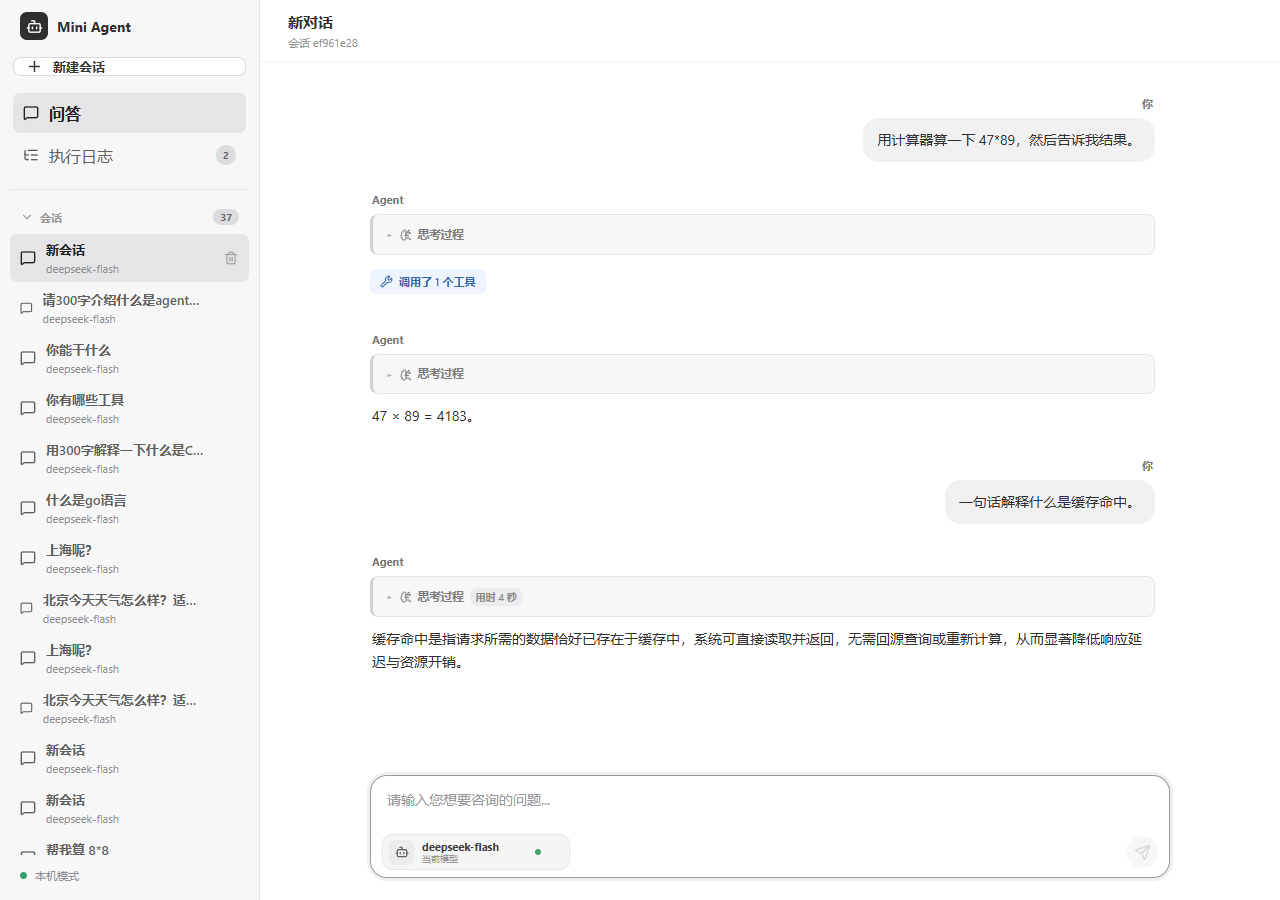
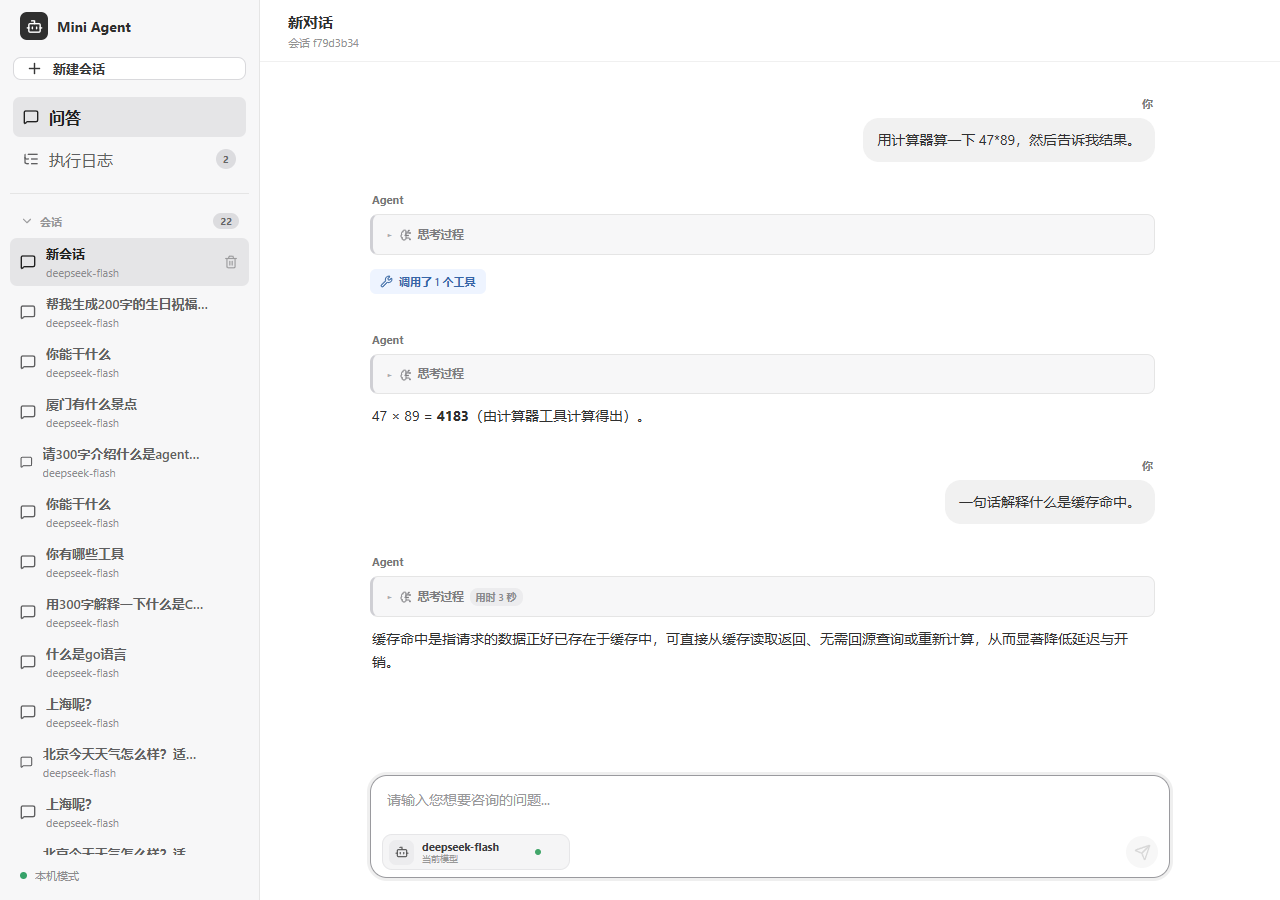
文档：按实测修正 README 命令，并澄清 npm/Vite/API 三处前提
- 切目录命令改用 cd（4 处）：原来那条是 PowerShell 专有 cmdlet，在 cmd / Git Bash 里直接 command not found；cd 在三种终端下都能粘贴执行
- npm/npx 不可用补第二种成因：除 wsl.exe 被安全策略拦下外，PowerShell 执行策略为 Restricted 时脚本包装器被禁止执行
- 补注 npm install 会改写 frontend/package-lock.json（不同 npm 版本对 libc 字段处理不同），属版本差异、不要提交这份 diff
- 澄清 127.0.0.1:5173 不是「可能连不上」而是必然被拒（Vite 只绑 IPv6 回环），实测 localhost 与 [::1] 均正常
- 补 pytest 的 SKIP 说明：2 个 skip 是真实模型用例，浏览器用例仍照常运行（走 Fake LLM）
- 主要 API 补三条必需请求体（POST sessions / runs / resources）：此前只列路径不给 body，照抄必 422
- 随附本轮浏览器验收证据（browser.json 与两张截图）

diff --git a/README.md b/README.md
@@ -98,17 +98,21 @@ React 前端 ──HTTP / SSE──▶ FastAPI 接口层（routers/）
 - Python 3.11+
 - Node.js 20+
 
-PowerShell 安装：
+安装（下面代码块用 `cd` 而不是 `Set-Location`，这样在 PowerShell、cmd 和 Git Bash 里都能直接粘贴执行）：
 
 ```powershell
 python -m venv .venv
 .\.venv\Scripts\python.exe -m pip install -r requirements.lock
-Set-Location frontend
+cd frontend
 npm install
-Set-Location ..
+cd ..
 ```
 
-若本机安全策略拦住了 `npm` / `npx`（某些 Windows 环境里它们是脚本包装器，会经 `wsl.exe` 路由而被拦下），改用同目录的 `npm.cmd` / `npx.cmd`，例如 `npm.cmd run build`。
+三点环境提示：
+
+- **`npm` / `npx` 不可用时的两种成因**：① 它们是脚本包装器、经 `wsl.exe` 路由而被安全策略拦下（Git Bash 里常见）；② PowerShell 执行策略为 `Restricted` 时 `npm.ps1` 被禁止执行。两种情况都改用同目录的 `npm.cmd` / `npx.cmd`，例如 `npm.cmd run build`。
+- **`npm install` 可能改写 `frontend/package-lock.json`**：不同 npm 版本对可选依赖的 `libc` 字段处理不同（实测 npm 10.9.7 会删掉若干 `libc` 条目）。这是版本差异而不是项目变更，**不要把这份 diff 提交**。
+- `requirements.lock` 是权威版本，`pip install -r` 会按它增删依赖（实测会把高于锁定的 `python-dotenv` 降回锁定的版本）。
 
 浏览器测试复用系统已安装的 Chrome 或 Edge，两者都找不到时会自动跳过、不会判定失败。确需 Playwright 自带 Chromium 时再执行：
 
@@ -143,18 +147,18 @@ Copy-Item .env.example .env
 后端监听 [http://127.0.0.1:8000](http://127.0.0.1:8000)。开发前端另开终端：
 
 ```powershell
-Set-Location frontend
+cd frontend
 npm run dev
 ```
 
-后端若运行在 8001 等其他端口，先设置前端开发代理：
+后端若运行在 8001 等其他端口，先设置前端开发代理（下面这条是 PowerShell 写法，Git Bash 用 `VITE_API_TARGET=http://127.0.0.1:8001 npm run dev`）：
 
 ```powershell
 $env:VITE_API_TARGET = "http://127.0.0.1:8001"
 npm run dev
 ```
 
-打开 [http://localhost:5173](http://localhost:5173)（Vite 默认只绑定 `localhost`，用 `127.0.0.1` 可能连不上）。生产式本地运行可先执行 `npm run build`，FastAPI 会从 `frontend/dist` 提供页面。
+打开 [http://localhost:5173](http://localhost:5173)。**必须用 `localhost`**：Vite 只绑定 IPv6 回环，实测 `127.0.0.1:5173` 会直接连接被拒（Windows 错误 10061），`localhost` 与 `[::1]` 都正常。生产式本地运行可先执行 `npm run build`，FastAPI 会从 `frontend/dist` 提供页面。
 
 两个浏览器窗口可以分别创建会话；当前会话 ID 保存在各自 URL 查询参数中，历史、摘要、待办和外置资源不会跨会话共享。
 
@@ -162,11 +166,13 @@ npm run dev
 
 ```powershell
 .\.venv\Scripts\python.exe -m pytest
-Set-Location frontend
+cd frontend
 npm run build
 ```
 
 默认测试使用脚本化 Fake LLM，但让响应经过真实解析器、注册表、工具、Runtime 和数据库。真实模型测试需要有效配置，单独运行并记录结果，不能用 Fake LLM 的通过结果代替。
+
+不设开关时，真实模型用例会被 `SKIP`（实测 `74 passed, 2 skipped`，那两个 skip 就是它），浏览器用例仍会照常运行——它们走 Fake LLM，只验证页面交互。
 
 真实模型测试会产生 API 费用，只有显式设置开关后才执行：
 
@@ -219,12 +225,12 @@ git config core.hooksPath .githooks
 
 ## 主要 API
 
-- `POST /api/sessions`、`GET /api/sessions`
+- `POST /api/sessions`、`GET /api/sessions` —— 创建会话需带请求体 `{"model_name": "deepseek-flash", "timezone": "Asia/Shanghai"}`；模型名必须在 `models.toml` 里（否则 400），时区会被校验（非法则 400），字段缺失由 FastAPI 回 422
 - `GET /api/sessions/{id}/messages`
-- `POST /api/sessions/{id}/runs`
+- `POST /api/sessions/{id}/runs` —— 需带请求体 `{"message": "..."}`（单条上限 10MB，超长内容由运行时转存为资源；可选 `request_key` 用于幂等），返回 202 表示已受理，回答走 SSE 或轮询
 - `GET /api/runs/{id}`、`POST /api/runs/{id}/cancel`
 - `GET /api/runs/{id}/events`、`GET /api/runs/{id}/trace`
-- `POST /api/sessions/{id}/resources`
+- `POST /api/sessions/{id}/resources` —— 需带请求体 `{"content": "...", "kind": "text"}`（`kind` 只接受 `text` / `json`）
 
 详细行为见 [设计文档](docs/design.md)，确认记录见 [架构决策](docs/decisions.md)，验收与缺陷修复记录见 [验收报告](docs/qa-report.md) 与 [AI Prompt 与问题解决记录](docs/ai-prompt-log.md)。
 
